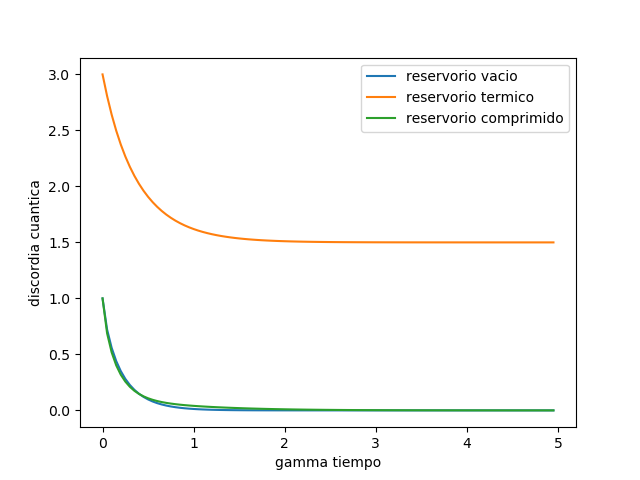
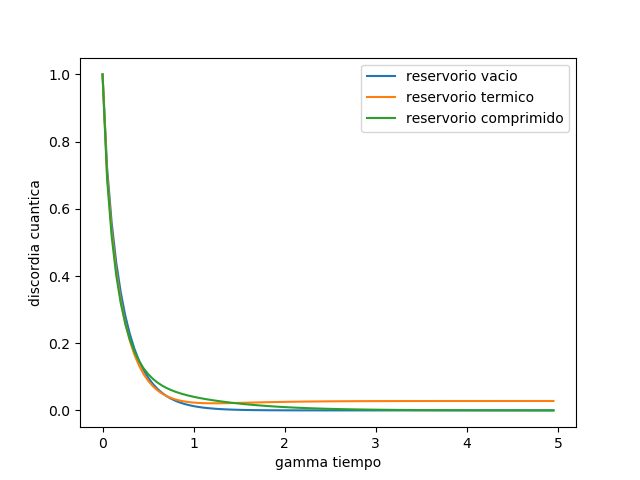
Cambio generado con script

diff --git a/master.py b/master.py
@@ -182,7 +182,7 @@ for i in range (0,100):
     conc_I4_S1S[i]=concurrence(mat)
     disc_I4_S1S[i]=-0.5*((1+c)*log_2(1+c)+(1-c)*log_2(1-c))
     for j in range (0,4):
-             disc_I4_S1S[i]=disc_I1_S0S[i]+mat.eigenenergies()[j]*log_2(4*mat.eigenenergies()[j])
+             disc_I4_S1S[i]=disc_I4_S1S[i]+mat.eigenenergies()[j]*log_2(4*mat.eigenenergies()[j])
 
 for i in range (0,100):
     mat=Qobj(em_I5_S1S.states[i])
@@ -387,7 +387,7 @@ for i in range (0,100):
     conc_I3_S1C[i]=concurrence(mat)
     disc_I3_S1C[i]=-0.5*((1+c)*log_2(1+c)+(1-c)*log_2(1-c))
     for j in range (0,4):
-             disc_I3_S1C[i]=disc_I4_S0C[i]+mat.eigenenergies()[j]*log_2(4*mat.eigenenergies()[j])
+             disc_I3_S1C[i]=disc_I3_S1C[i]+mat.eigenenergies()[j]*log_2(4*mat.eigenenergies()[j])
 
 for i in range (0,100):
     mat=Qobj(em_I4_S1C.states[i])
